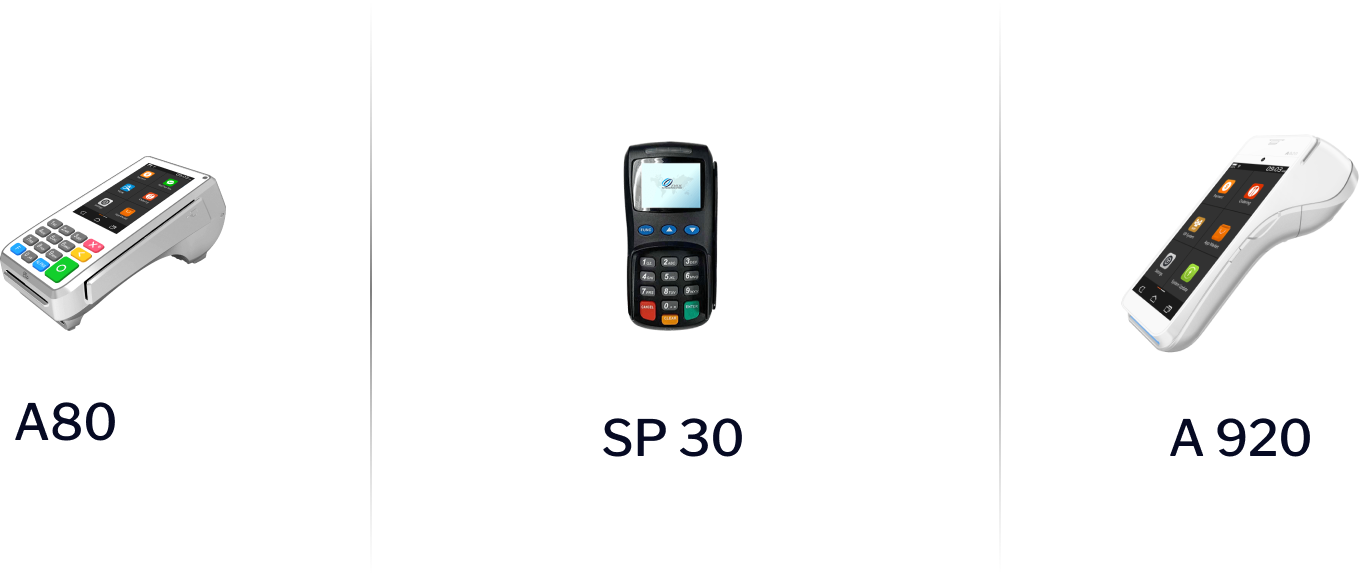
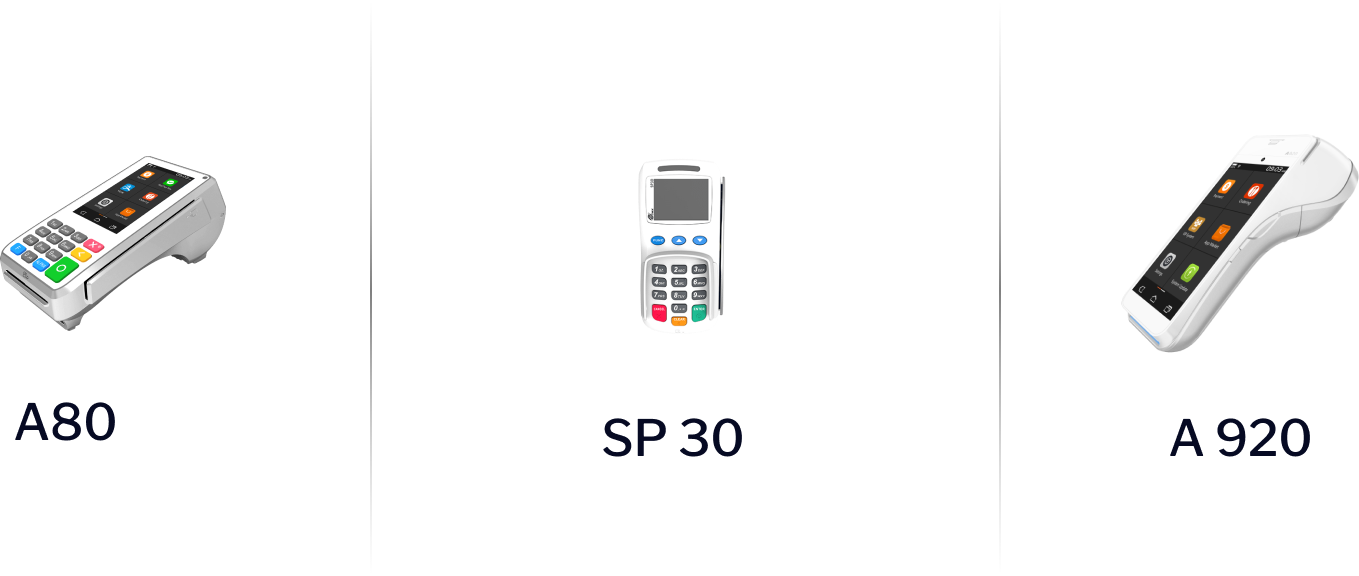
UPDATE

Changed region(s): [[0.4327, 0.25, 0.5563, 0.5938]]

diff --git a/app/(public)/solutions/page.tsx b/app/(public)/solutions/page.tsx
@@ -15,10 +15,6 @@ interface OptionItem {
 	software: string;
 }
 
-type OptionsType = {
-	[key: string]: OptionItem[];
-};
-
 const retailOptions: OptionItem[] = [
 	{
 		company: "clover",
@@ -31,28 +27,28 @@ const retailOptions: OptionItem[] = [
 		company: "pax",
 		logo: "/images/solutions/companies/pax.png",
 		hardwareDesktop: "/images/solutions/desktop/retail-pax.png",
-		hardwareMobile: "/images/solutions/mobile/retail-clover.png",
+		hardwareMobile: "/images/solutions/mobile/retail-pax.png",
 		software: "",
 	},
 	{
 		company: "dejavoo",
 		logo: "/images/solutions/companies/dejavoo.png",
 		hardwareDesktop: "/images/solutions/desktop/retail-dejavoo.png",
-		hardwareMobile: "/images/solutions/mobile/retail-clover.png",
+		hardwareMobile: "/images/solutions/mobile/retail-dejavoo.png",
 		software: "",
 	},
 	{
 		company: "ingenico",
 		logo: "/images/solutions/companies/ingenico.png",
 		hardwareDesktop: "/images/solutions/desktop/retail-ingenico.png",
-		hardwareMobile: "/images/solutions/mobile/retail-clover.png",
+		hardwareMobile: "/images/solutions/mobile/retail-ingenico.png",
 		software: "",
 	},
 	{
 		company: "valor",
 		logo: "/images/solutions/companies/valor.png",
 		hardwareDesktop: "/images/solutions/desktop/retail-valor.png",
-		hardwareMobile: "/images/solutions/mobile/retail-clover.png",
+		hardwareMobile: "/images/solutions/mobile/retail-valor.png",
 		software: "",
 	},
 ];
@@ -62,42 +58,42 @@ const restaurantOptions: OptionItem[] = [
 		company: "clover",
 		logo: "/images/solutions/companies/clover.png",
 		hardwareDesktop: "/images/solutions/desktop/restaurant-clover.png",
-		hardwareMobile: "/images/solutions/mobile/retail-clover.png",
+		hardwareMobile: "/images/solutions/mobile/restaurant-clover.png",
 		software: "/images/solutions/software/clover.png",
 	},
 	{
 		company: "pax",
 		logo: "/images/solutions/companies/pax.png",
 		hardwareDesktop: "/images/solutions/desktop/restaurant-pax.png",
-		hardwareMobile: "/images/solutions/mobile/retail-clover.png",
+		hardwareMobile: "/images/solutions/mobile/restaurant-pax.png",
 		software: "",
 	},
 	{
 		company: "dejavoo",
 		logo: "/images/solutions/companies/dejavoo.png",
 		hardwareDesktop: "/images/solutions/desktop/restaurant-dejavoo.png",
-		hardwareMobile: "/images/solutions/mobile/retail-clover.png",
+		hardwareMobile: "/images/solutions/mobile/restaurant-dejavoo.png",
 		software: "",
 	},
 	{
 		company: "valor",
 		logo: "/images/solutions/companies/valor.png",
 		hardwareDesktop: "/images/solutions/desktop/restaurant-valor.png",
-		hardwareMobile: "/images/solutions/mobile/retail-clover.png",
+		hardwareMobile: "/images/solutions/mobile/restaurant-valor.png",
 		software: "",
 	},
 	{
 		company: "talech",
 		logo: "/images/solutions/companies/talech.png",
 		hardwareDesktop: "/images/solutions/desktop/restaurant-talech.png",
-		hardwareMobile: "/images/solutions/mobile/retail-clover.png",
+		hardwareMobile: "/images/solutions/mobile/restaurant-talech.png",
 		software: "",
 	},
 	{
 		company: "ingenico",
 		logo: "/images/solutions/companies/ingenico.png",
 		hardwareDesktop: "/images/solutions/desktop/restaurant-ingenico.png",
-		hardwareMobile: "/images/solutions/mobile/retail-clover.png",
+		hardwareMobile: "/images/solutions/mobile/restaurant-ingenico.png",
 		software: "",
 	},
 ];
@@ -107,7 +103,7 @@ const b2bOptions: OptionItem[] = [
 		company: "clover",
 		logo: "/images/solutions/companies/clover.png",
 		hardwareDesktop: "/images/solutions/desktop/b2b-clover.png",
-		hardwareMobile: "/images/solutions/mobile/retail-clover.png",
+		hardwareMobile: "/images/solutions/mobile/b2b-clover.png",
 		software: "",
 	},
 ];
@@ -117,7 +113,7 @@ const eCommerceOptions: OptionItem[] = [
 		company: "clover",
 		logo: "/images/solutions/companies/clover.png",
 		hardwareDesktop: "/images/solutions/desktop/ecommerce-clover.png",
-		hardwareMobile: "/images/solutions/mobile/retail-clover.png",
+		hardwareMobile: "/images/solutions/mobile/ecommerce-clover.png",
 		software: "",
 	},
 ];

diff --git a/components/header.tsx b/components/header.tsx
@@ -5,8 +5,7 @@ import { motion } from "framer-motion";
 import { Button } from "./ui/button";
 import { ChevronDownIcon, MenuIcon } from "lucide-react";
 import { Drawer, DrawerContent, DrawerTrigger } from "./ui/drawer";
-import Link from "next/link";
-import { Avatar, AvatarFallback, AvatarImage } from "./ui/avatar";
+import { Avatar, AvatarImage } from "./ui/avatar";
 import { DropdownMenu } from "@radix-ui/react-dropdown-menu";
 import {
 	DropdownMenuContent,
@@ -112,7 +111,7 @@ const Header = ({
 						/>
 					</div>
 
-					<div className="hidden lg:flex items-center justify-between gap-[100px]">
+					<div className="hidden lg:flex items-center justify-between gap-[100px] px-[100px]">
 						<Button
 							variant="ghost"
 							onClick={() => router.push("/about")}
@@ -139,7 +138,7 @@ const Header = ({
 							Solutions
 						</Button>
 
-						<div className="flex gap-4 items-center">
+						{/* <div className="flex gap-4 items-center">
 							{isSelectedCountry && (
 								<>
 									<div className="bg-gradient-to-r from-GOLD to-BLUE rounded-full p-[2px] hover:shadow-sm">
@@ -191,7 +190,7 @@ const Header = ({
 									))}
 								</DropdownMenuContent>
 							</DropdownMenu>
-						</div>
+						</div> */}
 					</div>
 
 					<div className="block lg:hidden">
@@ -246,29 +245,13 @@ const Header = ({
 											Solutions
 										</Button>
 									</motion.li>
-									<motion.li
+									{/* <motion.li
 										className="text-sm w-full text-center py-4"
 										variants={item}
 									>
 										Choose a country
 									</motion.li>
-									<motion.li className="item" variants={item}>
-										<div className="flex items-center gap-2 p-4 border-b mb-2">
-											<Avatar>
-												<AvatarImage
-													src={selectedCountry.image}
-													alt={selectedCountry.name}
-												/>
-											</Avatar>
-											<span>{selectedCountry.name}</span>
-										</div>
-									</motion.li>
 									{countries
-										.filter(
-											(country) =>
-												country.name !==
-												selectedCountry.name
-										)
 										.map((country, index) => (
 											<motion.li
 												key={index}
@@ -297,7 +280,7 @@ const Header = ({
 													<span>{country.name}</span>
 												</div>
 											</motion.li>
-										))}
+										))} */}
 								</motion.ul>
 							</DrawerContent>
 						</Drawer>

diff --git a/app/(public)/about/page.tsx b/app/(public)/about/page.tsx
@@ -215,10 +215,11 @@ const AboutPage = () => {
 											Seamless <br /> Experience
 										</div>
 										<div>
-											At AMI, we take pride in delivering
-											superior customer service, ensuring
-											that our clients receive the highest
-											level of support and satisfaction.
+											We are committed to making your
+											experience with our services
+											seamless and satisfying, addressing
+											all your needs efficiently and
+											effectively.
 										</div>
 									</div>
 								</div>
